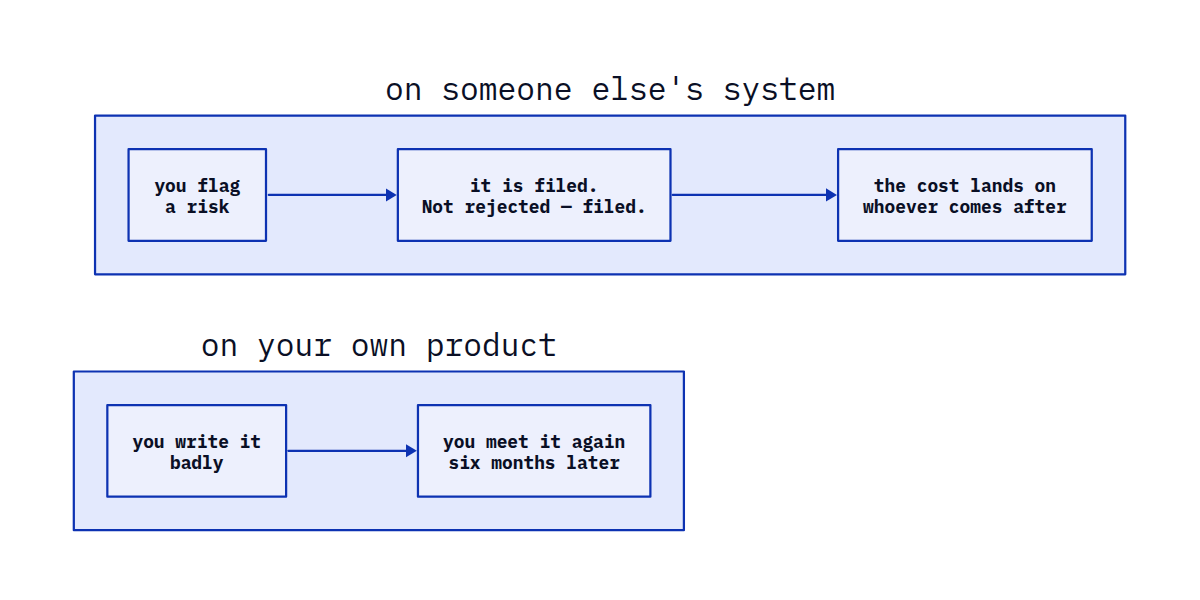
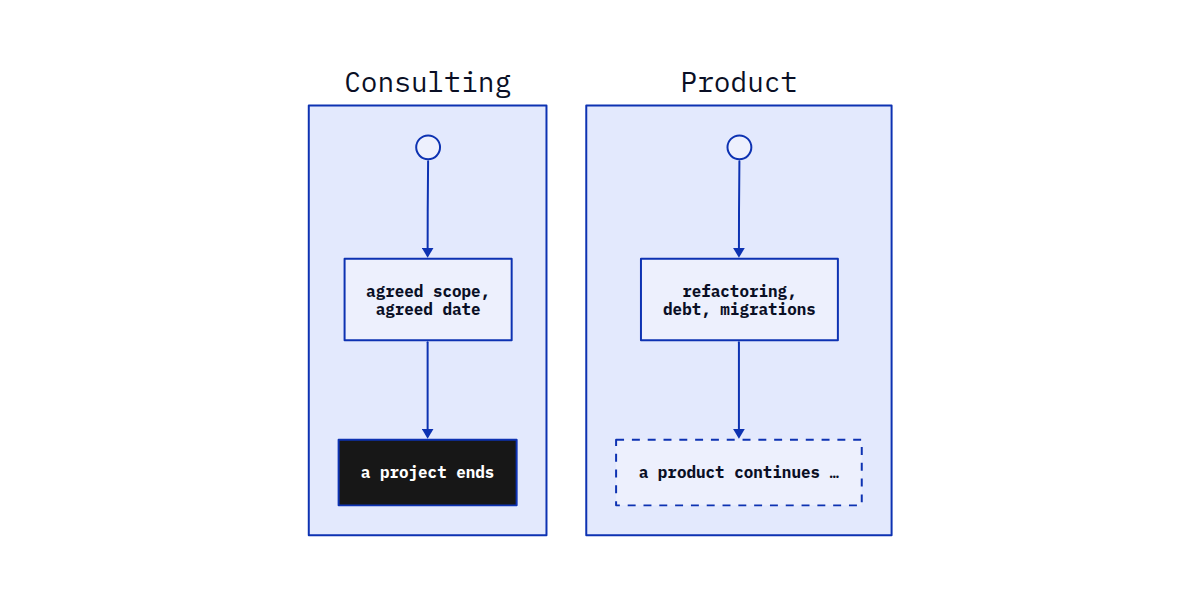
Redesign the quality-was-nobodys-job diagram, and swap the freelance-years hero
quality-was-nobodys-job has no real artefact available — company and
clients are anonymized by editorial rule, so a diagram is the only
option, and it stays grounded in the post's own words rather than an
assumed mechanism. Replaced the two-loop framing with the post's
sharpest line, quoted directly: "A project ends. A product continues."
A bounded path ending in a solid stop versus an open dashed one reads
faster than the previous pair of feedback loops did.

freelance-years: Adriano supplied a cleaner Freelancer.com brand asset
— the origami hummingbird mark and tagline — replacing the Wayback
Machine screenshot used until now. Same real subject, better source.

Changed region(s): [[0.0617, 0.12, 0.9558, 0.9]]

diff --git a/src/content/blog/quality-was-nobodys-job.md b/src/content/blog/quality-was-nobodys-job.md
@@ -4,7 +4,7 @@ description: "Eight years at a software house, half in consulting and half build
 pubDate: 'Oct 21 2025'
 tags: ["career"]
 heroImage: "../../assets/blog/quality-loops/hero.png"
-heroAlt: "Two loops: on someone else’s system a flagged risk is filed rather than rejected and the cost lands on whoever comes after, while on your own product code written badly comes back to you six months later"
+heroAlt: "Consulting: agreed scope, agreed date, a project ends. Product: refactoring, debt, migrations — a product continues"
 ---
 
 From 2015 to 2023 I worked as a full-stack developer at a software house: consulting until 2019, on clients in banking, insurance and e-learning; the company's own product, a B2B SaaS, from 2019 on. For years I told these eight years as consulting-versus-product. But what I actually learned isn't about the contract label — it's about me: I'm not someone who sits still on a system that's already built. I like to learn, to build, to experiment. And it's that instinct, not the kind of contract, that decided which of those years actually felt right.

diff --git a/src/content/blog/freelance-years.md b/src/content/blog/freelance-years.md
@@ -3,8 +3,8 @@ title: "The freelance years: real clients, and a lesson school never taught me"
 description: "Freelancing was the first time nobody vouched for the work but me — and the first time I learned that technical skill alone isn't enough."
 pubDate: 'Dec 16 2024'
 tags: ["career"]
-heroImage: "../../assets/blog/freelance-years/freelancer-2014.png"
-heroAlt: "The Freelancer.com home page as it looked in June 2014, archived: a rocket illustration over the headline Ready to launch, with Hire and Work buttons, above a grid of listed jobs and their prices"
+heroImage: "../../assets/blog/freelance-years/hero.png"
+heroAlt: "The Freelancer.com logo — an origami hummingbird beside the wordmark — over the tagline \"Think whenever, work wherever\", on blue"
 ---
 
 Freelancing, from 2013 to 2015, was the first time nobody else's name was attached to the work — no principal assigning it, no institution funding it, no program structuring it. No one was vouching for me. If a client trusted the work, it was because of the work itself, not because something else stood behind it.
